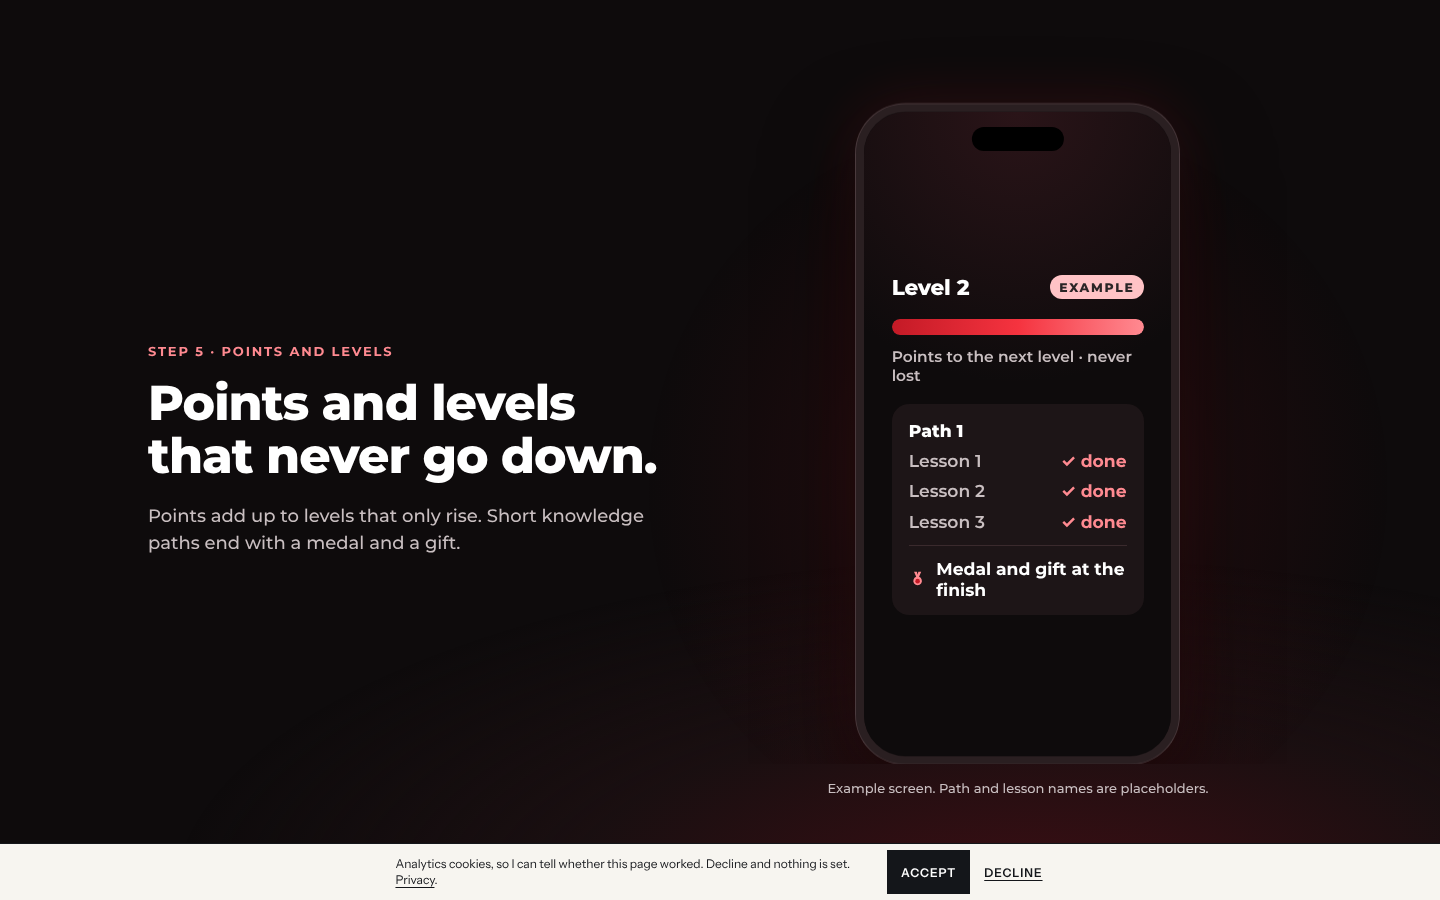
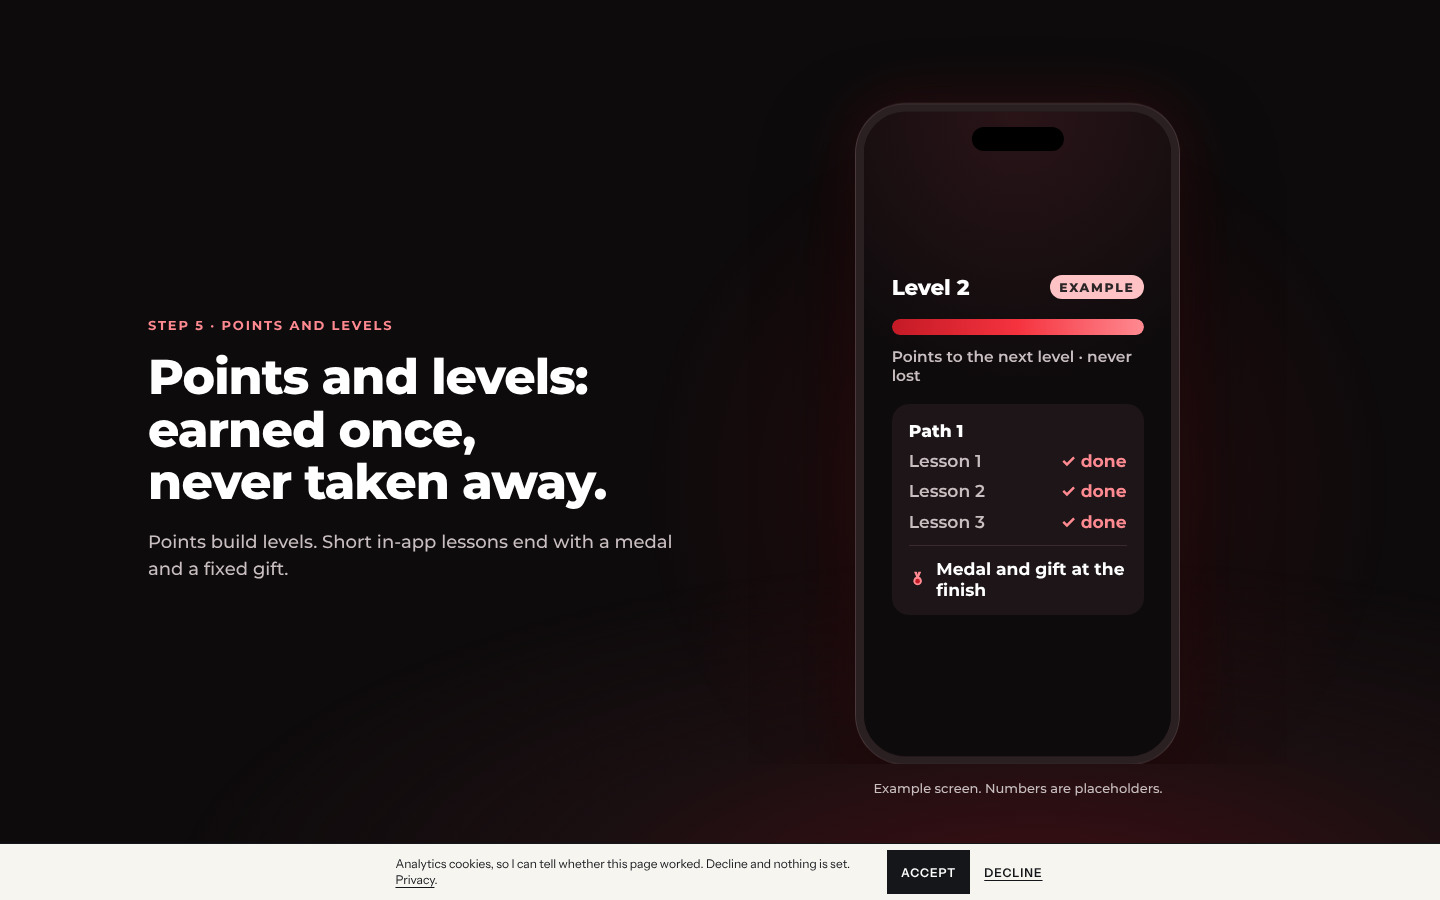
work/genactiv p2: poprawki po recenzji — Example na ekranach z liczbami, przycisk zgody z klawiatury, teksty z recenzji 22, kontrast

Changed region(s): [[0.0938, 0.3422, 0.4688, 0.6533], [0.5938, 0.8711, 0.8438, 0.9022]]

diff --git a/app/work/genactiv/GenactivClient.tsx b/app/work/genactiv/GenactivClient.tsx
@@ -21,6 +21,7 @@ const smooth = (v: number) => {
 
 type Copy = { kicker: string; title: string; sub: string; cap?: string }
 const CAP = 'Recreated screen for illustration.'
+const NUM = 'Example screen. Numbers are placeholders.'
 const COPY: Copy[] = [
   {
     kicker: 'GENACTIV · Polish colostrum brand',
@@ -31,6 +32,7 @@ const COPY: Copy[] = [
     kicker: 'The problem',
     title: 'The risk: the habit fades halfway through the pack.',
     sub: 'Without a daily reason, the second order never comes.',
+    cap: NUM,
   },
   {
     kicker: 'Step 1 · Proof of purchase',
@@ -46,28 +48,29 @@ const COPY: Copy[] = [
     kicker: 'Step 3 · The month',
     title: 'Rewards are set before day one.',
     sub: 'Every ticked day fills the ring. The stamp lands on a day the customer knew in advance, never by chance.',
+    cap: NUM,
   },
   {
     kicker: 'Step 4 · Cashback',
     title: 'Cashback grows with every repeat order.',
-    sub: 'Each new order moves the customer one step up the stairs. The brand fixes the steps before launch.',
-    cap: 'Example screen. Bar heights are illustrative.',
+    sub: 'Each repeat order raises cashback by one fixed step. The brand sets every step before launch.',
+    cap: NUM,
   },
   {
     kicker: 'Step 5 · Points and levels',
-    title: 'Points and levels that never go down.',
-    sub: 'Points add up to levels that only rise. Short knowledge paths end with a medal and a gift.',
-    cap: 'Example screen. Path and lesson names are placeholders.',
+    title: 'Points and levels: earned once, never taken away.',
+    sub: 'Points build levels. Short in-app lessons end with a medal and a fixed gift.',
+    cap: NUM,
   },
   {
     kicker: 'Step 6 · Consent',
     title: 'Consent off: every card stays visible.',
-    sub: 'The daily card and streak show as locked, with one button to turn them on. Order rewards never wait for consent.',
+    sub: 'The daily card and streak show as locked, with one button to turn them on. No reward depends on push or email consent.',
   },
   {
     kicker: 'How it was built',
-    title: 'From green light to a store-ready build.',
-    sub: 'The studio\u2019s AI agents wrote the app. A person signed off every gate on the way.',
+    title: 'Every build passes security, data and copy checks.',
+    sub: 'AI agents write the code; a person signs off each check before the next step.',
     cap: 'Build stages in order.',
   },
 ]
@@ -76,11 +79,11 @@ const COPY: Copy[] = [
 const GATES: { t: string; gate?: boolean }[] = [
   { t: 'Green light from the brand' },
   { t: 'Security review', gate: true },
-  { t: 'Data-access tests', gate: true },
+  { t: 'Tests that no customer sees another\u2019s data', gate: true },
   { t: 'GDPR art. 9: a dose is stored only as \u201cticked on date\u201d', gate: true },
   { t: 'Copy review', gate: true },
-  { t: 'Engagement gate', gate: true },
-  { t: 'Store-ready build' },
+  { t: 'Rewards check: fixed and shown in advance', gate: true },
+  { t: 'Store release only after the brand signs off' },
 ]
 
 /* ---------- Pierscien 30 dni ---------- */
@@ -308,7 +311,10 @@ function ScreenFade({ p }: { p: number }) {
   const dim = smooth((p - 0.5) / 0.4)
   return (
     <div className="ga-scr" aria-hidden="true">
-      <div className="ga-scr-h">This month</div>
+      <div className="ga-scr-top">
+        <div className="ga-scr-h">This month</div>
+        <Chip />
+      </div>
       <div className="ga-ring-wrap">
         <Ring lit={lit} dim={dim} />
         <div className="ga-ring-mid">
@@ -402,7 +408,10 @@ function ScreenMonth({ p, live, from = 0 }: { p: number; live: boolean; from?: n
   const stamp = lit >= STAMP_DAY
   return (
     <div className="ga-scr" aria-hidden="true">
-      <div className="ga-scr-h">This month</div>
+      <div className="ga-scr-top">
+        <div className="ga-scr-h">This month</div>
+        <Chip />
+      </div>
       <div className="ga-ring-wrap">
         <Ring lit={lit} stampOn={stamp} />
         <div className="ga-ring-mid">
@@ -480,8 +489,8 @@ function ScreenLevels({ p }: { p: number }) {
             </div>
           )
         })}
-        <div className="ga-path-end" style={{ opacity: 0.35 + 0.65 * end }}>
-          <svg viewBox="0 0 24 24" width="22" height="22" aria-hidden="true">
+        <div className="ga-path-end">
+          <svg viewBox="0 0 24 24" width="22" height="22" aria-hidden="true" style={{ opacity: 0.35 + 0.65 * end }}>
             <path d="M7 2h4l1 4 1-4h4l-3 7a6 6 0 1 1-4 0L7 2z" fill="#ff8a91" />
             <circle cx="12" cy="15" r="3.2" fill="#c41a26" />
           </svg>
@@ -500,17 +509,18 @@ function Lock() {
   )
 }
 
-function ScreenConsent({ p }: { p: number }) {
-  const on = p > 0.72
+function ScreenConsent({ on, onToggle, onFocus }: { on: boolean; onToggle: () => void; onFocus?: () => void }) {
   return (
-    <div className="ga-scr" aria-hidden="true">
-      <div className="ga-scr-h">Health data consent</div>
-      <div className="ga-toggle-row">
+    <div className="ga-scr">
+      <div className="ga-scr-h" aria-hidden="true">
+        Health data consent
+      </div>
+      <div className="ga-toggle-row" aria-hidden="true">
         <span>{on ? 'Consent on' : 'Consent off'}</span>
         <i className={'ga-toggle' + (on ? ' ga-on' : '')} />
       </div>
       {['Daily card', 'Streak'].map((c) => (
-        <div key={c} className={'ga-cardrow' + (on ? '' : ' ga-locked')}>
+        <div key={c} className={'ga-cardrow' + (on ? '' : ' ga-locked')} aria-hidden="true">
           <span>{c}</span>
           <b>
             {on ? (
@@ -523,11 +533,15 @@ function ScreenConsent({ p }: { p: number }) {
           </b>
         </div>
       ))}
-      <div className="ga-cardrow">
-        <span>Order rewards</span>
-        <b>{'\u2713 on'}</b>
-      </div>
-      <div className={'ga-fakebtn' + (on ? ' ga-done' : '')}>{on ? 'Turned on' : 'Agree and turn on'}</div>
+      <button
+        type="button"
+        className={'ga-fakebtn' + (on ? ' ga-done' : '')}
+        aria-pressed={on}
+        onClick={onToggle}
+        onFocus={onFocus}
+      >
+        Agree and turn on
+      </button>
     </div>
   )
 }
@@ -569,6 +583,8 @@ export function GenactivStory() {
   const [f, setF] = useState(0) // postep 0..ACTS w trybie przewijania
   const [revealed, setRevealed] = useState(false)
   const [robot, setRobot] = useState(false)
+  const [consent, setConsent] = useState(false)
+  const flipConsent = useCallback(() => setConsent((v) => !v), [])
 
   useEffect(() => {
     const mq = window.matchMedia('(prefers-reduced-motion: reduce)')
@@ -620,6 +636,15 @@ export function GenactivStory() {
     const y = window.scrollY + r.top + (3.4 / ACTS) * span
     if (Math.abs(window.scrollY - y) > span / ACTS / 3) window.scrollTo({ top: y })
   }
+  // Przycisk zgody w makiecie aktu 7: fokus przewija scene do aktu 7 (wzorzec jak przy zdrapce).
+  const toConsent = () => {
+    const el = track.current
+    if (mode !== 'scroll' || !el) return
+    const r = el.getBoundingClientRect()
+    const span = r.height - window.innerHeight
+    const y = window.scrollY + r.top + (7.4 / ACTS) * span
+    if (Math.abs(window.scrollY - y) > span / ACTS / 3) window.scrollTo({ top: y })
+  }
   const reveal = (
     <button type="button" className="ga-btn" onClick={done} onFocus={toScratch} aria-disabled={revealed}>
       {revealed ? 'Card revealed' : 'Reveal without scratching'}
@@ -654,7 +679,7 @@ export function GenactivStory() {
                   {i === 4 ? <ScreenMonth p={1} live={false} /> : null}
                   {i === 5 ? <ScreenCash p={1} /> : null}
                   {i === 6 ? <ScreenLevels p={1} /> : null}
-                  {i === 7 ? <ScreenConsent p={0} /> : null}
+                  {i === 7 ? <ScreenConsent on={consent} onToggle={flipConsent} /> : null}
                   {i === 8 ? <ScreenBuild p={1} /> : null}
                 </div>
                 {i === 0 ? (
@@ -718,7 +743,12 @@ export function GenactivStory() {
             <div className="ga-phone" style={{ transform: `translateY(${((1 - p0) * 50).toFixed(2)}%)` }}>
               <div className="ga-notch" />
               {COPY.map((_, i) => (
-                <div key={i} className="ga-layer" inert={vis(i) < 0.5} style={{ opacity: vis(i) }}>
+                <div
+                  key={i}
+                  className="ga-layer"
+                  inert={vis(i) < 0.5 && i !== 7}
+                  style={{ opacity: vis(i), pointerEvents: vis(i) < 0.5 ? 'none' : undefined }}
+                >
                   {i === 0 ? <ScreenHome /> : null}
                   {i === 1 ? <ScreenFade p={act === 1 ? local : act > 1 ? 1 : 0} /> : null}
                   {i === 2 ? <ScreenScan p={act === 2 ? local : act > 2 ? 1 : 0} /> : null}
@@ -726,7 +756,7 @@ export function GenactivStory() {
                   {i === 4 ? <ScreenMonth p={act === 4 ? local : 0} live from={revealed ? 1 : 0} /> : null}
                   {i === 5 ? <ScreenCash p={act === 5 ? local : act > 5 ? 1 : 0} /> : null}
                   {i === 6 ? <ScreenLevels p={act === 6 ? local : act > 6 ? 1 : 0} /> : null}
-                  {i === 7 ? <ScreenConsent p={act === 7 ? local : 0} /> : null}
+                  {i === 7 ? <ScreenConsent on={consent} onToggle={flipConsent} onFocus={toConsent} /> : null}
                   {i === 8 ? <ScreenBuild p={act === 8 ? local : 0} /> : null}
                 </div>
               ))}

diff --git a/app/work/genactiv/genactiv.css b/app/work/genactiv/genactiv.css
@@ -304,3 +304,6 @@ body:has(.ga) { overflow-x: visible; max-width: none; background: #0e0b0c; color
   .ga-stamp.ga-on { animation: none; opacity: 1; transform: translate(-50%, -50%) rotate(-8deg); }
   .ga-foil { transition: none; }
 }
+/* akt 7: prawdziwy przycisk zgody w makiecie (osiagalny Tabem) */
+button.ga-fakebtn { border: 0; font: 800 1em/1.2 'Montserrat', system-ui, sans-serif; cursor: pointer; min-height: 44px; }
+button.ga-fakebtn.ga-done { color: var(--muted); }

diff --git a/agencja/teksty-do-akceptacji.md b/agencja/teksty-do-akceptacji.md
@@ -166,3 +166,16 @@ w `agencja/rubryka-tekstow.md`. Recenzje czytelnika-kupującego: `agencja/recenz
 | akt 8 podpis | Build stages in order. | nowy |
 | akt 8 oś (czytana przez czytnik) | Build path · Green light from the brand · Security review · Data-access tests · GDPR art. 9: a dose is stored only as “ticked on date” · Copy review · Engagement gate · Store-ready build · (przy bramkach) human sign-off | nowy |
 | ekrany 5–7 (rysunek, aria-hidden) | Cashback · Example · Order 1–4 · Next order one step up · Level 2 · Points to the next level · never lost · Path 1 · Lesson 1–3 · ✓ done / next · Medal and gift at the finish · Health data consent · Consent off / Consent on · Daily card · Streak · locked / ✓ on · Order rewards · Agree and turn on / Turned on | nowy |
+
+### R4 przebieg 2 — poprawki po recenzji i czytelniku 22 (23.11.2026)
+| Miejsce | Było | Jest | Status |
+|---|---|---|---|
+| akt 5 zdanie | Each new order moves the customer one step up the stairs. The brand fixes the steps before launch. | Each repeat order raises cashback by one fixed step. The brand sets every step before launch. | zmieniony |
+| akt 6 H2 | Points and levels that never go down. | Points and levels: earned once, never taken away. | zmieniony |
+| akt 6 zdanie | Points add up to levels that only rise. Short knowledge paths end with a medal and a gift. | Points build levels. Short in-app lessons end with a medal and a fixed gift. | zmieniony |
+| akt 7 zdanie | …Order rewards never wait for consent. | The daily card and streak show as locked, with one button to turn them on. No reward depends on push or email consent. | zmieniony |
+| akt 7 makieta | wiersz „Order rewards · ✓ on” | usunięty; „Agree and turn on” to prawdziwy przycisk (aria-pressed) | zmieniony |
+| akt 8 H2 | From green light to a store-ready build. | Every build passes security, data and copy checks. | zmieniony |
+| akt 8 zdanie | The studio’s AI agents wrote the app. A person signed off every gate on the way. | AI agents write the code; a person signs off each check before the next step. | zmieniony |
+| akt 8 oś | Data-access tests · Engagement gate · Store-ready build | Tests that no customer sees another’s data · Rewards check: fixed and shown in advance · Store release only after the brand signs off | zmieniony |
+| podpis ekranów z liczbami (akty 1, 4, 5, 6) | Recreated screen… / Example screen. Bar heights… / …placeholders. | Example screen. Numbers are placeholders. (+ plakietka EXAMPLE na ekranach „This month”) | zmieniony |

diff --git a/agencja/specs/realizacja-genactiv.md b/agencja/specs/realizacja-genactiv.md
@@ -81,3 +81,10 @@ Stan: zbudowane; build, tsc, lint (0 błędów, 1 ostrzeżenie jak przed), copy-
 qa.js --scroll PASS (9 szerokości), noindex, brak /work w sitemap.xml; surowy CLS przy przewinięciu całej strony 0,0034 (390)
 / 0,0007 (1440). Zrzuty: `agencja/podglad/genactiv-p2-*.png`.
 Otwarte: czytelnik-kupujący dla nowych tekstów (osobny subagent) jeszcze nie przeszedł; liczby aktu 8 czekają na plik doradcy.
+Poprawki po recenzji i czytelniku 22 (23.11): plakietka EXAMPLE na obu ekranach „This month” i podpis „Example screen. Numbers
+are placeholders.” przy każdym ekranie z liczbami (akty 1, 4, 5, 6); „Agree and turn on” to prawdziwy `<button aria-pressed>`
+przełączający makietę, osiągalny Tabem w scenie (fokus przewija do aktu 7) i w trybie statycznym (sprawdzone: 4. Tab, Enter →
+pressed=true); usunięty wiersz „Order rewards · on”; 6 przepisań z recenzji 22, oś aktu 8 bez „store-ready”; kontrast: tekst
+„Medal and gift at the finish” bez przyciemnienia (było 3,22:1 przy krycie 0,35, teraz biały na #1d1517), nieaktywne kroki osi
+#c9bfc1 na #0e0b0c = 10,92:1. Bramki: build, tsc, lint 0 błędów (1 ostrzeżenie jak przed), copy-voice OK, qa.js PASS, noindex,
+brak w sitemap, CLS 0,0026 (390) / 0,0006 (1440).
